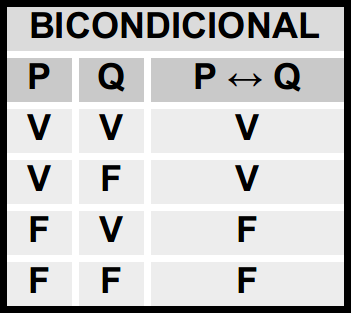
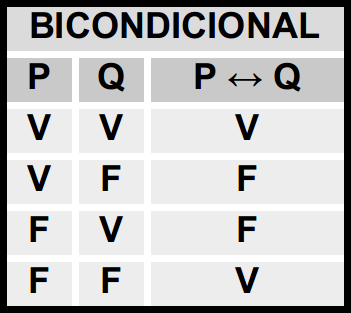
Commit 32 - Correções nas expressões e na ajuda

Changed region(s): [[0.6553, 0.8339, 0.7407, 0.9489], [0.6553, 0.5176, 0.7407, 0.6326]]

diff --git a/lib/src/model/objetivo/objetivo.dart b/lib/src/model/objetivo/objetivo.dart
@@ -66,13 +66,13 @@ final _level1 = [
     expressaoEmoji: "A;BICON;B",
     respostas: ";F;F",
     erradas: ";V;V",
-    dicionario: ";A:F;B:F",
+    dicionario: ";A:V;B:F",
   ),
   ExpressaoEmoji(
     expressaoEmoji: ";A;BICON;B",
     respostas: ";V;V",
     erradas: ";F;F",
-    dicionario: ";A:V;B:F",
+    dicionario: ";A:F;B:F",
   ),
   ExpressaoEmoji(
     expressaoEmoji: ";(;A;OR;B;)",
@@ -129,13 +129,13 @@ final _level2 = [
     expressaoEmoji: ";NOT;A;BICON;B",
     respostas: ";V;V",
     erradas: ";F;F",
-    dicionario: ";A:F;B:F",
+    dicionario: ";A:F;B:V",
   ),
   ExpressaoEmoji(
     expressaoEmoji: ";NOT;A;BICON;B",
     respostas: ";F;F",
     erradas: ";V;V",
-    dicionario: ";A:V;B:F",
+    dicionario: ";A:V;B:V",
   ),
   ExpressaoEmoji(
     expressaoEmoji: ";NOT;(;A;OR;B;)",
@@ -190,8 +190,8 @@ final _level3 = [
   ),
   ExpressaoEmoji(
     expressaoEmoji: ";(;NOT;A;);BICON;(;NOT;B;)",
-    respostas: ";V;V",
-    erradas: ";F;F",
+    respostas: ";F;F",
+    erradas: ";V;V",
     dicionario: ";A:F;B:V",
   ),
   ExpressaoEmoji(
@@ -241,8 +241,8 @@ final _level3 = [
 final _level4 = [
   ExpressaoEmoji(
     expressaoEmoji: ";(;NOT;A;CON;NOT;A;);BICON;A",
-    respostas: ";V;V",
-    erradas: ";F;F",
+    respostas: ";F;F",
+    erradas: ";V;V",
     dicionario: ";A:F",
   ),
   ExpressaoEmoji(

diff --git a/lib/src/model/objetivo/quest_expressao.dart b/lib/src/model/objetivo/quest_expressao.dart
@@ -18,8 +18,6 @@ class QuestExpressao {
     SymbolObjectBoxColorRed(),
   ];
 
-  
-
   QuestExpressao(this._expressaoEmoji);
 
   Future<void> build() async {
@@ -109,6 +107,5 @@ class QuestExpressao {
   bool _checkResposta(SymbolObject _sym){
     return !this._respostas.every((sym) => sym.text != _sym.text);
   }
-
 
 }
